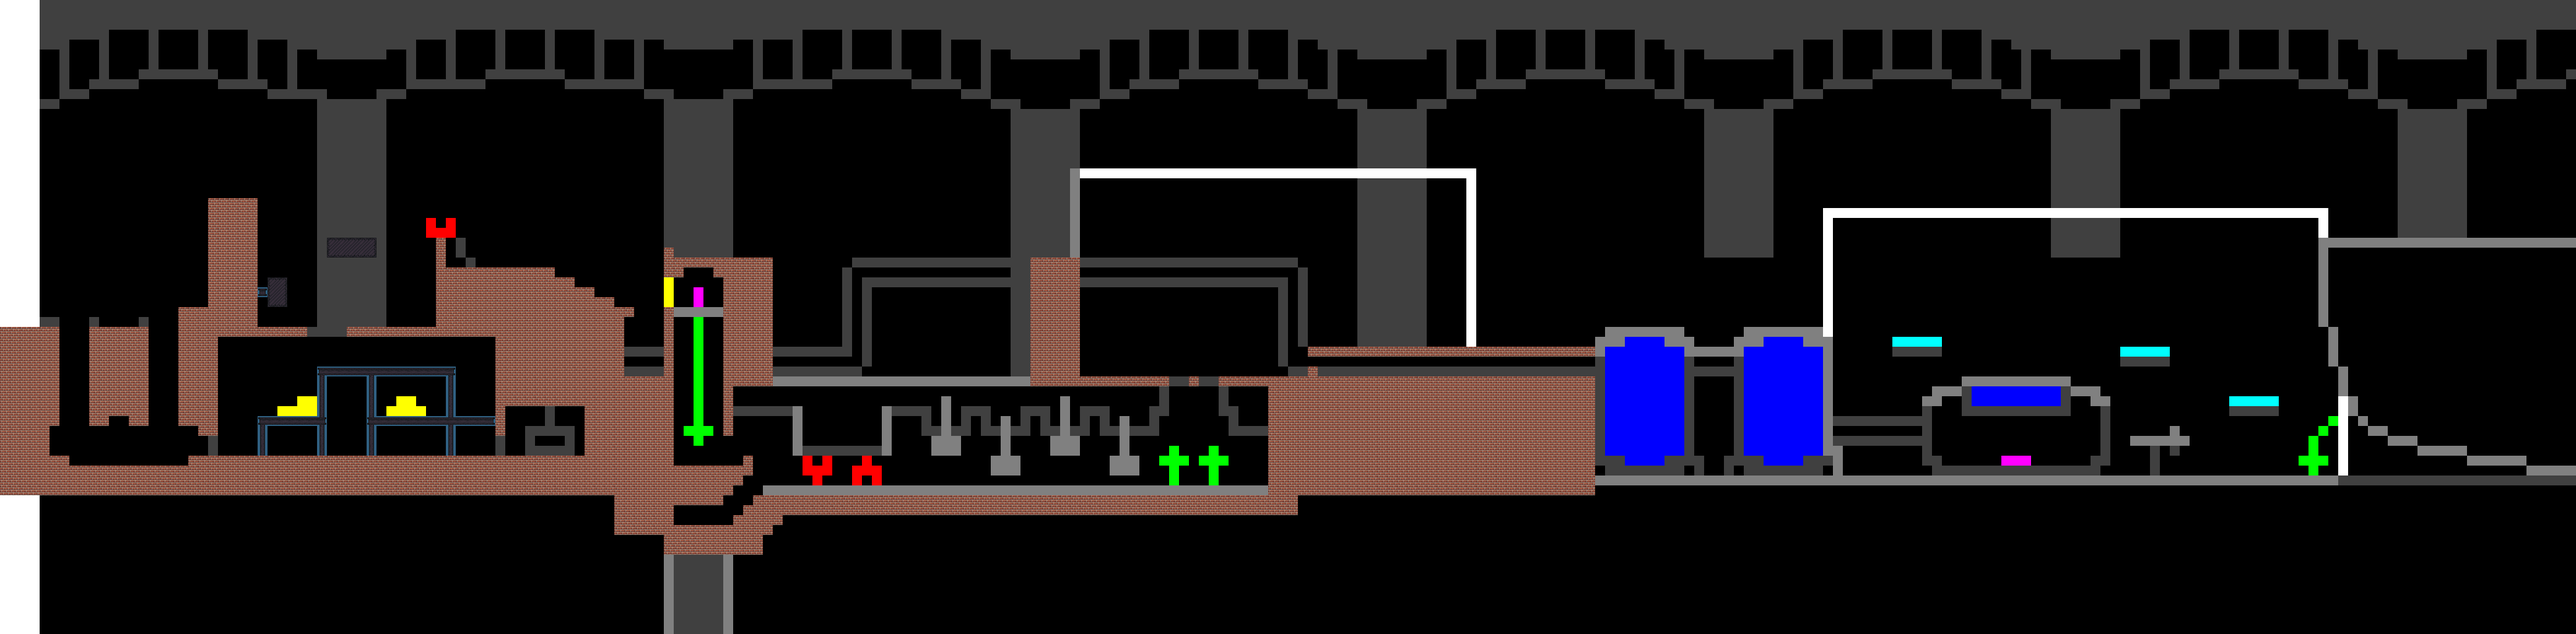
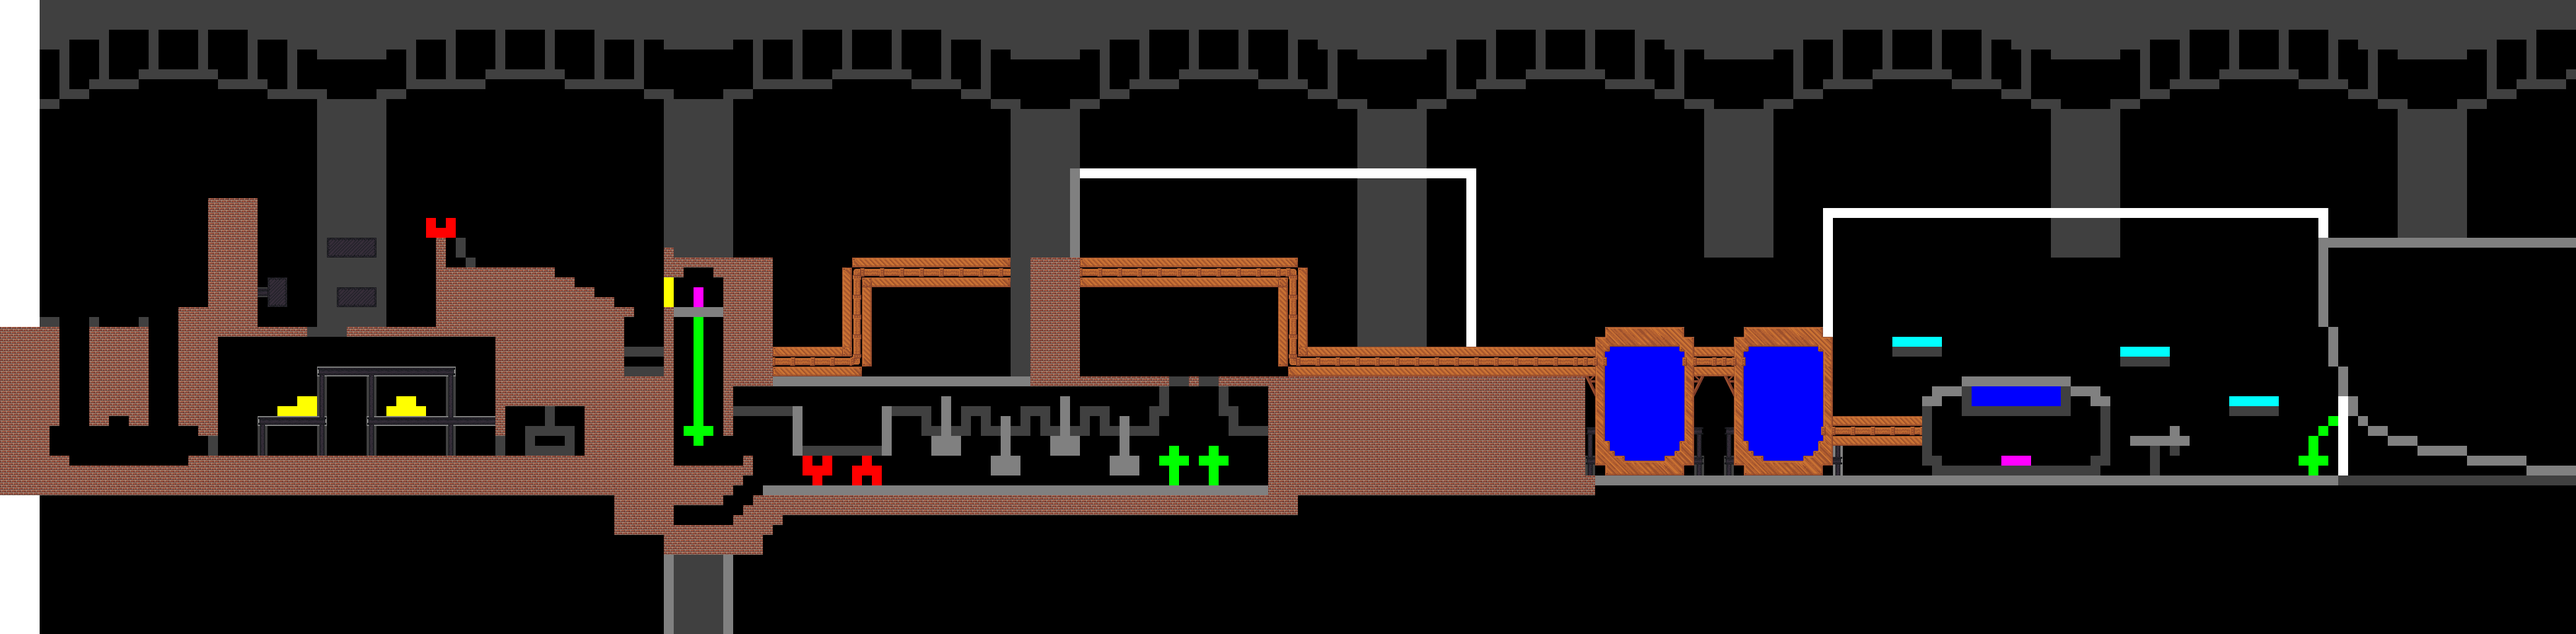
add move zone for player

Changed region(s): [[0.2812, 0.4062, 0.75, 0.75], [0.0938, 0.6562, 0.1875, 0.6875], [0.125, 0.5625, 0.1562, 0.5938]]

diff --git a/Game/Map.c b/Game/Map.c
@@ -9,7 +9,6 @@ void LoadMapData(Cjson* _cjson);
 void LoadObjectMap(InfoZone** _infoZoneExit, int* _infoZoneCountExit, Object* _object, int _objectCount);
 void SetPositionEntity(InfoZone* _point, int _count);
 void CreateRectVisible(InfoZone* _infoZone, int _count);
-Bool StringCompareMap(char* _string1, char* _string2);
 
 void LoadMap(sfSprite* _background)
 {
@@ -61,7 +60,7 @@ void SetMap(MapState _map)
 		LoadEnnemy();
 		AddEnnemy((sfVector2f) { 200, 500 }, ALEATORY);
 	}
-		SetPositionEntity(map.data.point, map.data.pointCount);
+	SetPositionEntity(map.data.point, map.data.pointCount);
 }
 
 MapState GetActualyMap(void)
@@ -75,19 +74,19 @@ void LoadMapData(Cjson* _cjson)
 
 	for (int i = 0; i < _cjson->layersCount; i++)
 	{
-		if (StringCompareMap(_cjson->layers[i].name, "Collider"))
+		if (StringCompare(_cjson->layers[i].name, "Collider"))
 		{
 			LoadObjectMap(&map.data.colider, &map.data.coliderCount, _cjson->layers[i].objects, _cjson->layers[i].objectsCount);
 		}
-		else if (StringCompareMap(_cjson->layers[i].name, "Trigger"))
+		else if (StringCompare(_cjson->layers[i].name, "Trigger"))
 		{
 			LoadObjectMap(&map.data.triger, &map.data.trigerCount, _cjson->layers[i].objects, _cjson->layers[i].objectsCount);
 		}
-		else if (StringCompareMap(_cjson->layers[i].name, "Move"))
+		else if (StringCompare(_cjson->layers[i].name, "Move"))
 		{
 			LoadObjectMap(&map.data.move, &map.data.moveCount, _cjson->layers[i].objects, _cjson->layers[i].objectsCount);
 		}
-		else if (StringCompareMap(_cjson->layers[i].name, "Point"))
+		else if (StringCompare(_cjson->layers[i].name, "Point"))
 		{
 			LoadObjectMap(&map.data.point, &map.data.pointCount, _cjson->layers[i].objects, _cjson->layers[i].objectsCount);
 		}
@@ -104,7 +103,7 @@ MapData* GetMapData(void)
 	return &map.data;
 }
 
-void LoadObjectMap(InfoZone** _infoZoneExit,int* _infoZoneCountExit, Object* _object, int _objectCount)
+void LoadObjectMap(InfoZone** _infoZoneExit, int* _infoZoneCountExit, Object* _object, int _objectCount)
 {
 	*_infoZoneCountExit = 0;
 	*_infoZoneExit = NULL;
@@ -126,14 +125,14 @@ void SetPositionEntity(InfoZone* _point, int _count)
 {
 	for (int i = 0; i < _count; i++)
 	{
-		if (StringCompareMap(_point[i].type, "Enemy"))
+		if (StringCompare(_point[i].type, "Enemy"))
 		{
 			if (DEV_ENNEMY)
 			{
 				SetPositionEnnemy((sfVector2f) { _point[i].hitbox.left, _point[i].hitbox.top }, 0);
 			}
 		}
-		else if (StringCompareMap(_point[i].type, "SpawnPlayer"))
+		else if (StringCompare(_point[i].type, "SpawnPlayer"))
 		{
 			SetPlayerPosition((sfVector2f) { _point[i].hitbox.left, _point[i].hitbox.top });
 		}
@@ -156,20 +155,6 @@ void CreateRectVisible(InfoZone* _infoZone, int _count)
 			sfRectangleShape_setOutlineThickness(rectShape[i], -1.f);
 		}
 	}
-}
-
-Bool StringCompareMap(char* _string1, char* _string2)
-{
-	int i = 0;
-	while (_string1[i] == _string2[i])
-	{
-		i++;
-		if (_string1[i] == 0 && _string2[i] == 0)
-		{
-			return TRUE;
-		}
-	}
-	return FALSE;
 }
 
 sfVector2f Colision(sfFloatRect _hitbox)
@@ -213,10 +198,9 @@ sfVector2f Colision(sfFloatRect _hitbox)
 
 InfoZone* GetInfoZoneTriger(sfFloatRect _hitbox)
 {
-	sfFloatRect reaction = { 0 };
 	for (int i = 0; i < map.data.trigerCount; i++)
 	{
-		if (sfFloatRect_intersects(&_hitbox, &map.data.triger[i].hitbox, &reaction))
+		if (sfFloatRect_intersects(&_hitbox, &map.data.triger[i].hitbox, NULL))
 		{
 			return &map.data.triger[i];
 		}
@@ -226,15 +210,19 @@ InfoZone* GetInfoZoneTriger(sfFloatRect _hitbox)
 
 InfoZone* GetInfoZoneMove(sfFloatRect _hitbox)
 {
-	sfFloatRect reaction = { 0 };
-	for (int i = 0; i < map.data.trigerCount; i++)
+	for (int i = 0; i < map.data.moveCount; i++)
 	{
-		if (sfFloatRect_intersects(&_hitbox, &map.data.triger[i].hitbox, &reaction))
+		if (sfFloatRect_intersects(&_hitbox, &map.data.move[i].hitbox, NULL))
 		{
-			return &map.data.triger[i];
+			return map.data.move;
 		}
 	}
 	return NULL;
+}
+
+int GetMoveCount(void)
+{
+	return map.data.moveCount;
 }
 
 void DrawDev(sfRenderWindow* _renderWindow)

diff --git a/Game/Player.c b/Game/Player.c
@@ -6,6 +6,8 @@ float timerDash = 0;
 float timerFaling = 0;
 
 void MovePlayer(float _dt);
+void ColisionMapPlayer(sfVector2f _move, float _dt);
+void MoveZonePlayer(float _dt);
 
 sfVertexArray* CreateLineOfSight(sfVector2f _pointA, sfVector2f _pointB, sfColor _color);
 
@@ -39,8 +41,11 @@ sfVertexArray* CreateLineOfSight(sfVector2f _pointA, sfVector2f _pointB, sfColor
 
 void UpdatePlayer(float _dt)
 {
+	MoveZonePlayer(_dt);
 	MovePlayer(_dt);
+
 	SetViewCenter(GetPlayerPosition());
+
 	sfSprite_setPosition(player.sprite, sfRectangleShape_getPosition(player.collision));
 }
 
@@ -53,15 +58,28 @@ void MovePlayer(float _dt)
 
 	if (timerDash >= PLAYER_DASH_DURATION)
 	{
-		player.velocity.x = 0;
+		player.velocity.x /= 1.5f;
+
 		if (sfKeyboard_isKeyPressed(GetKeyFromSave(KEY_RIGHT)) || sfMouse_isButtonPressed(GetMouseKeyFromSave(KEY_RIGHT)))
 		{
-			player.velocity.x++;
+			if (player.velocity.x < 1)
+			{
+				player.velocity.x = 1;
+			}
 		}
-		if (sfKeyboard_isKeyPressed(GetKeyFromSave(KEY_LEFT)) || sfMouse_isButtonPressed(GetMouseKeyFromSave(KEY_LEFT)))
+		else if (sfKeyboard_isKeyPressed(GetKeyFromSave(KEY_LEFT)) || sfMouse_isButtonPressed(GetMouseKeyFromSave(KEY_LEFT)))
 		{
-			player.velocity.x--;
+			if (player.velocity.x > -1)
+			{
+				player.velocity.x = -1;
+			}
 		}
+
+		if (player.velocity.x > -0.1f && player.velocity.x < 0.1f)
+		{
+			player.velocity.x = 0;
+		}
+
 		if (player.velocity.x < 0)
 		{
 			player.direction = sfFalse;
@@ -102,17 +120,26 @@ void MovePlayer(float _dt)
 	if (timerDash >= PLAYER_DASH_COOLDOWN && (sfKeyboard_isKeyPressed(GetKeyFromSave(KEY_DASH)) || sfMouse_isButtonPressed(GetMouseKeyFromSave(KEY_DASH))))
 	{
 		timerDash = 0;
+
+		player.velocity.y /= 1.5f;
+
 		if (player.direction)
 		{
-			player.velocity.x = PLAYER_DASH_POWER;
+			player.velocity.x += PLAYER_DASH_POWER;
 		}
 		else
 		{
-			player.velocity.x = -PLAYER_DASH_POWER;
+			player.velocity.x += -PLAYER_DASH_POWER;
 		}
 	}
 
 	sfRectangleShape_move(player.collision, (sfVector2f) { 0, PLAYER_WALK_SPEED_MAX* player.velocity.y* _dt });
+
+	ColisionMapPlayer(player.velocity, _dt);
+}
+
+void ColisionMapPlayer(sfVector2f _move, float _dt)
+{
 	sfVector2f reaction = Colision(sfRectangleShape_getGlobalBounds(player.collision));
 
 	if (reaction.y < 0)
@@ -158,6 +185,45 @@ void MovePlayer(float _dt)
 		}
 	}
 	sfRectangleShape_move(player.collision, reaction);
+}
+
+void MoveZonePlayer(float _dt)
+{
+	InfoZone* zone = GetInfoZoneMove(sfRectangleShape_getGlobalBounds(player.collision));
+
+	if (zone != NULL)
+	{
+		int num = GetMoveCount();
+
+		InfoZone* zone = GetInfoZoneMove(sfRectangleShape_getGlobalBounds(player.collision));
+		for (int i = 0; i < num; i++)
+		{
+			int speed = 0;
+			sscanf_s(zone[i].name, "%d", &speed);
+
+			sfFloatRect hitbox = sfRectangleShape_getGlobalBounds(player.collision);
+
+			if (sfFloatRect_intersects(&hitbox, &zone[i].hitbox, NULL))
+			{
+				if (StringCompare(zone[i].type, "RIGHT"))
+				{
+					sfRectangleShape_move(player.collision, (sfVector2f) { speed* _dt, 0 });
+				}
+				else if (StringCompare(zone[i].type, "LEFT"))
+				{
+					sfRectangleShape_move(player.collision, (sfVector2f) { -speed * _dt, 0 });
+				}
+				else if (StringCompare(zone[i].type, "DOWN"))
+				{
+					sfRectangleShape_move(player.collision, (sfVector2f) { 0, speed* _dt });
+				}
+				else if (StringCompare(zone[i].type, "UP"))
+				{
+					sfRectangleShape_move(player.collision, (sfVector2f) { 0, -speed * _dt });
+				}
+			}
+		}
+	}
 }
 
 void KillPlayer(void)

diff --git a/Game/Common.c b/Game/Common.c
@@ -87,3 +87,20 @@ void** CreateGrid(sfVector2u _size, size_t _typeSize)
 	return grid;
 }
 
+sfBool StringCompare(char* _string1, char* _string2)
+{
+	int i = 0;
+	while (_string1[i] == _string2[i])
+	{
+		i++;
+		if (_string1[i] == 0 && _string2[i] == 0)
+		{
+			return TRUE;
+		}
+		else if (_string1[i] == 0 || _string2[i] == 0)
+		{
+			return FALSE;
+		}
+	}
+	return FALSE;
+}

diff --git a/Game/Map.h b/Game/Map.h
@@ -61,8 +61,8 @@ MapState GetActualyMap(void);
 MapData* GetMapData(void);
 InfoZone* GetInfoZoneTriger(sfFloatRect _hitbox);
 InfoZone* GetInfoZoneMove(sfFloatRect _hitbox);
+int GetMoveCount(void);
 
 sfVector2f Colision(sfFloatRect _hitbox);
 void DrawDev(sfRenderWindow* _renderWindow);
-
 #endif // !MAP_H

diff --git a/Game/Game.c b/Game/Game.c
@@ -15,7 +15,7 @@ void LoadGame(void)
 	LoadMap(background);
 	
 
-	LoadHUD();
+	//LoadHUD();
 	LoadGUI();
 	LoadPlayer();
 	LoadAim();
@@ -81,7 +81,7 @@ void UpdateGame(float _dt)
 	{
 		UpdateEnnemy(_dt, 0);
 	}
-	UpdateHUD(_dt);
+	//UpdateHUD(_dt);
 	UpdateGUI(_dt);
 	UpdateCollider();
 	UpdateAim(_dt);

diff --git a/Game/Common.h b/Game/Common.h
@@ -70,5 +70,5 @@ void SetSpriteOriginFoot(sfSprite* _sprite);
 void SetSpriteOriginMiddel(sfSprite* _sprite);
 void CopyStingToBuffer(char* _buffer, char* _string);
 void** CreateGrid(sfVector2u _size, size_t _typeSize);
-
+sfBool StringCompare(char* _string1, char* _string2);
 #endif // !COMMON_H

diff --git a/Game/Player.h b/Game/Player.h
@@ -11,7 +11,7 @@
 
 #define PLAYER_DASH_POWER 2.0f
 #define PLAYER_DASH_COOLDOWN 0.5f
-#define PLAYER_DASH_DURATION 0.1f
+#define PLAYER_DASH_DURATION 0.08f
 
 #define PLAYER_JUMP_FORGIVE 0.1f
 
